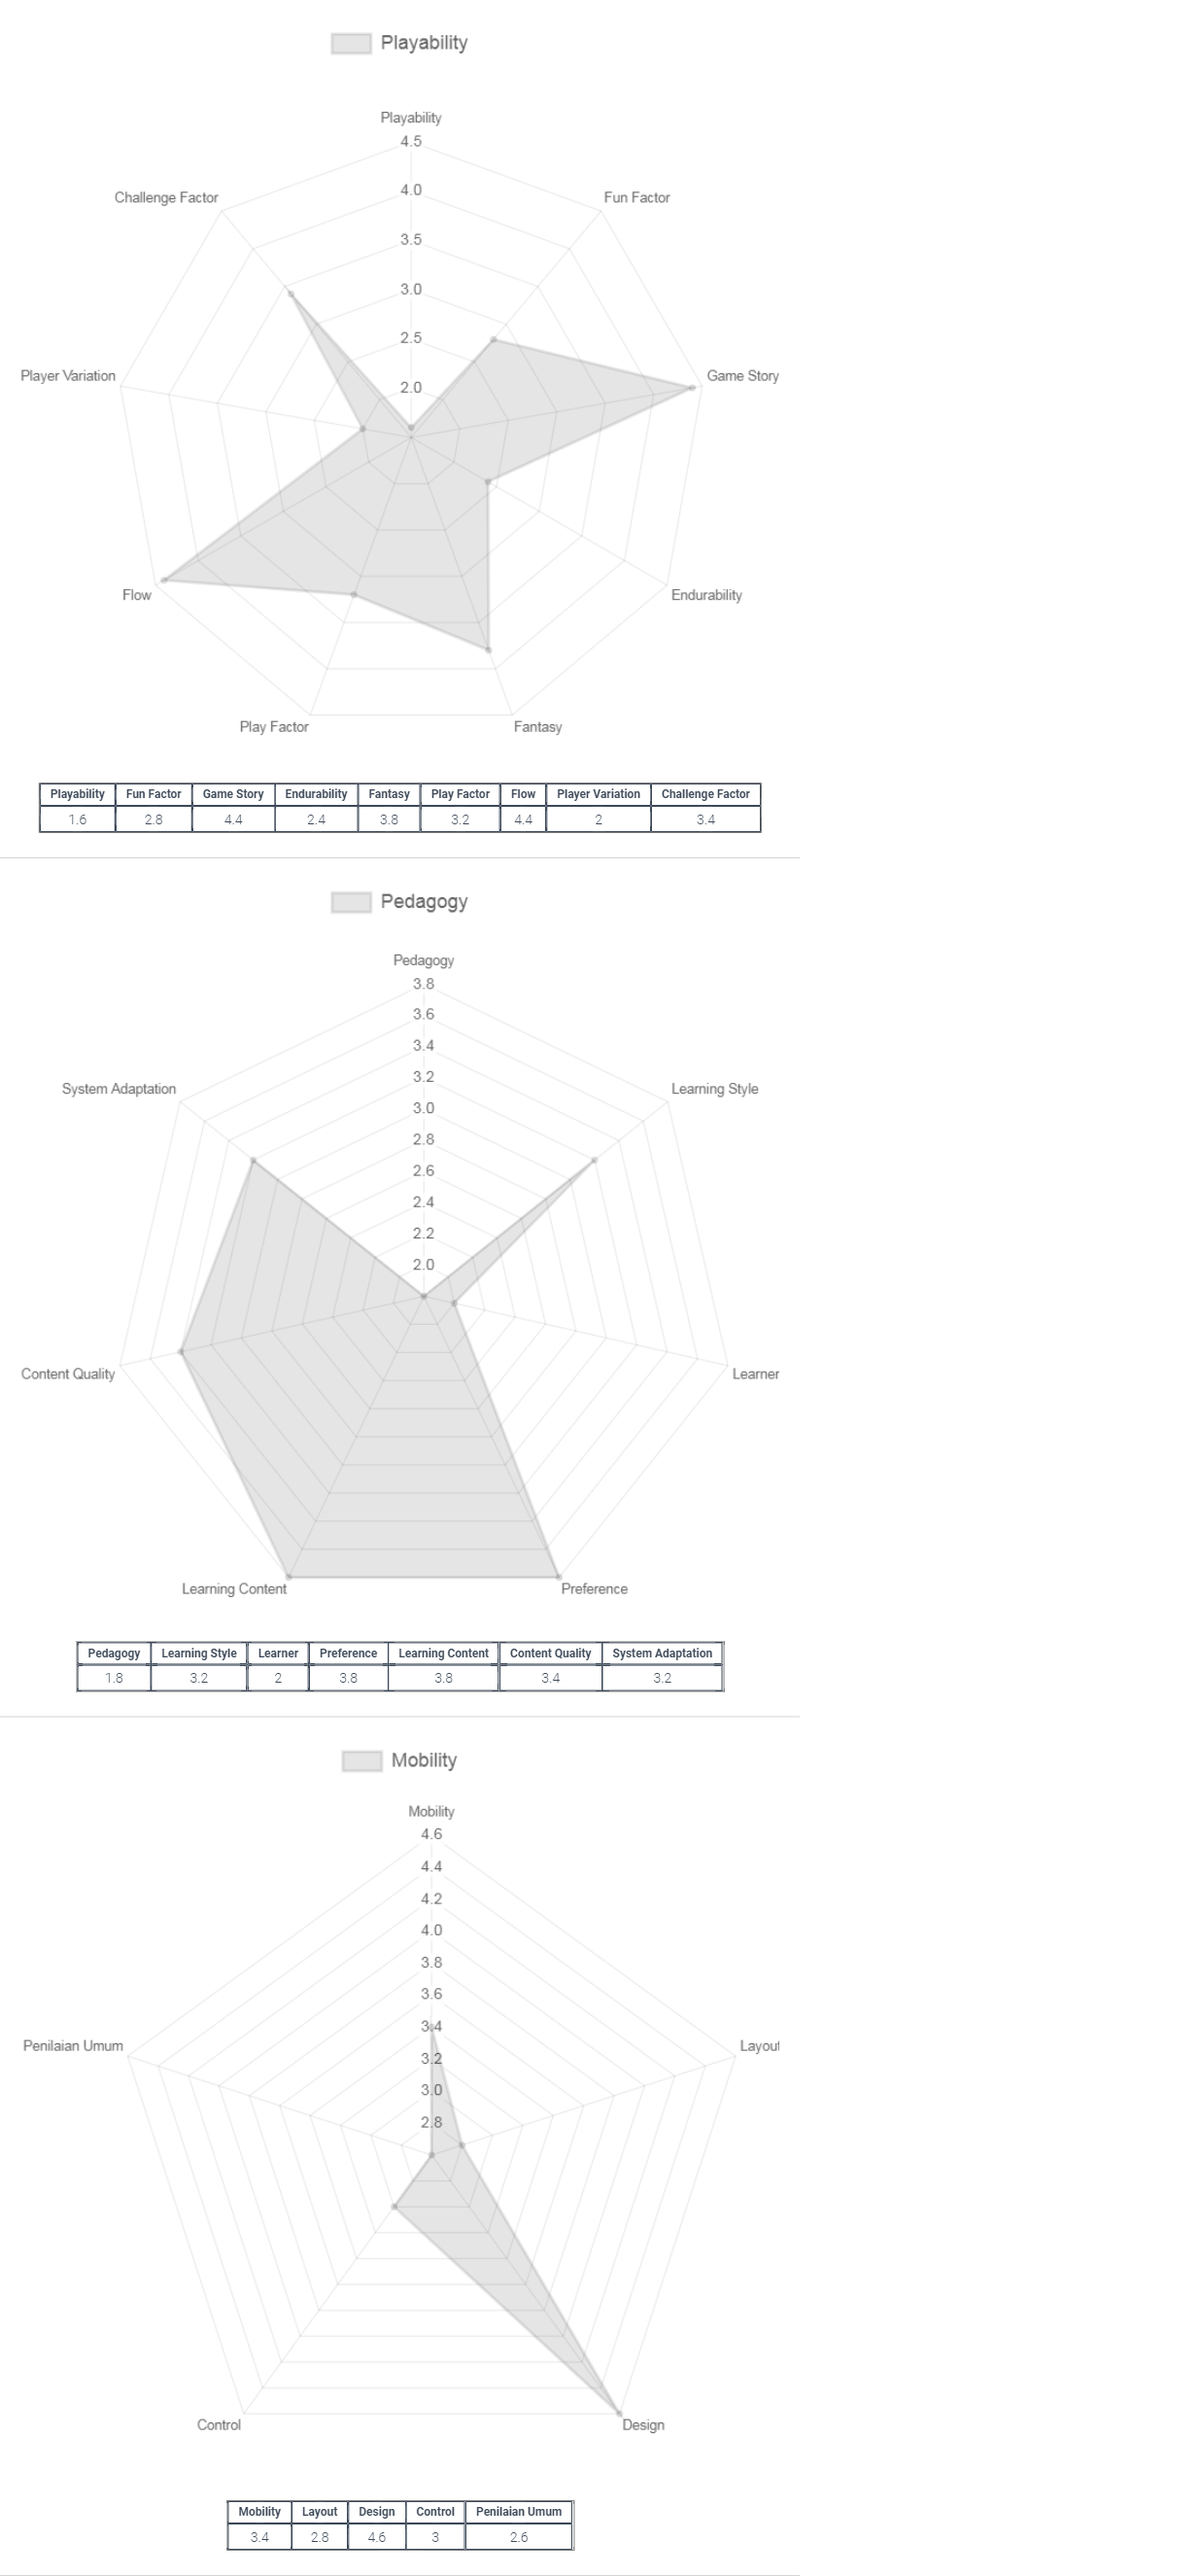
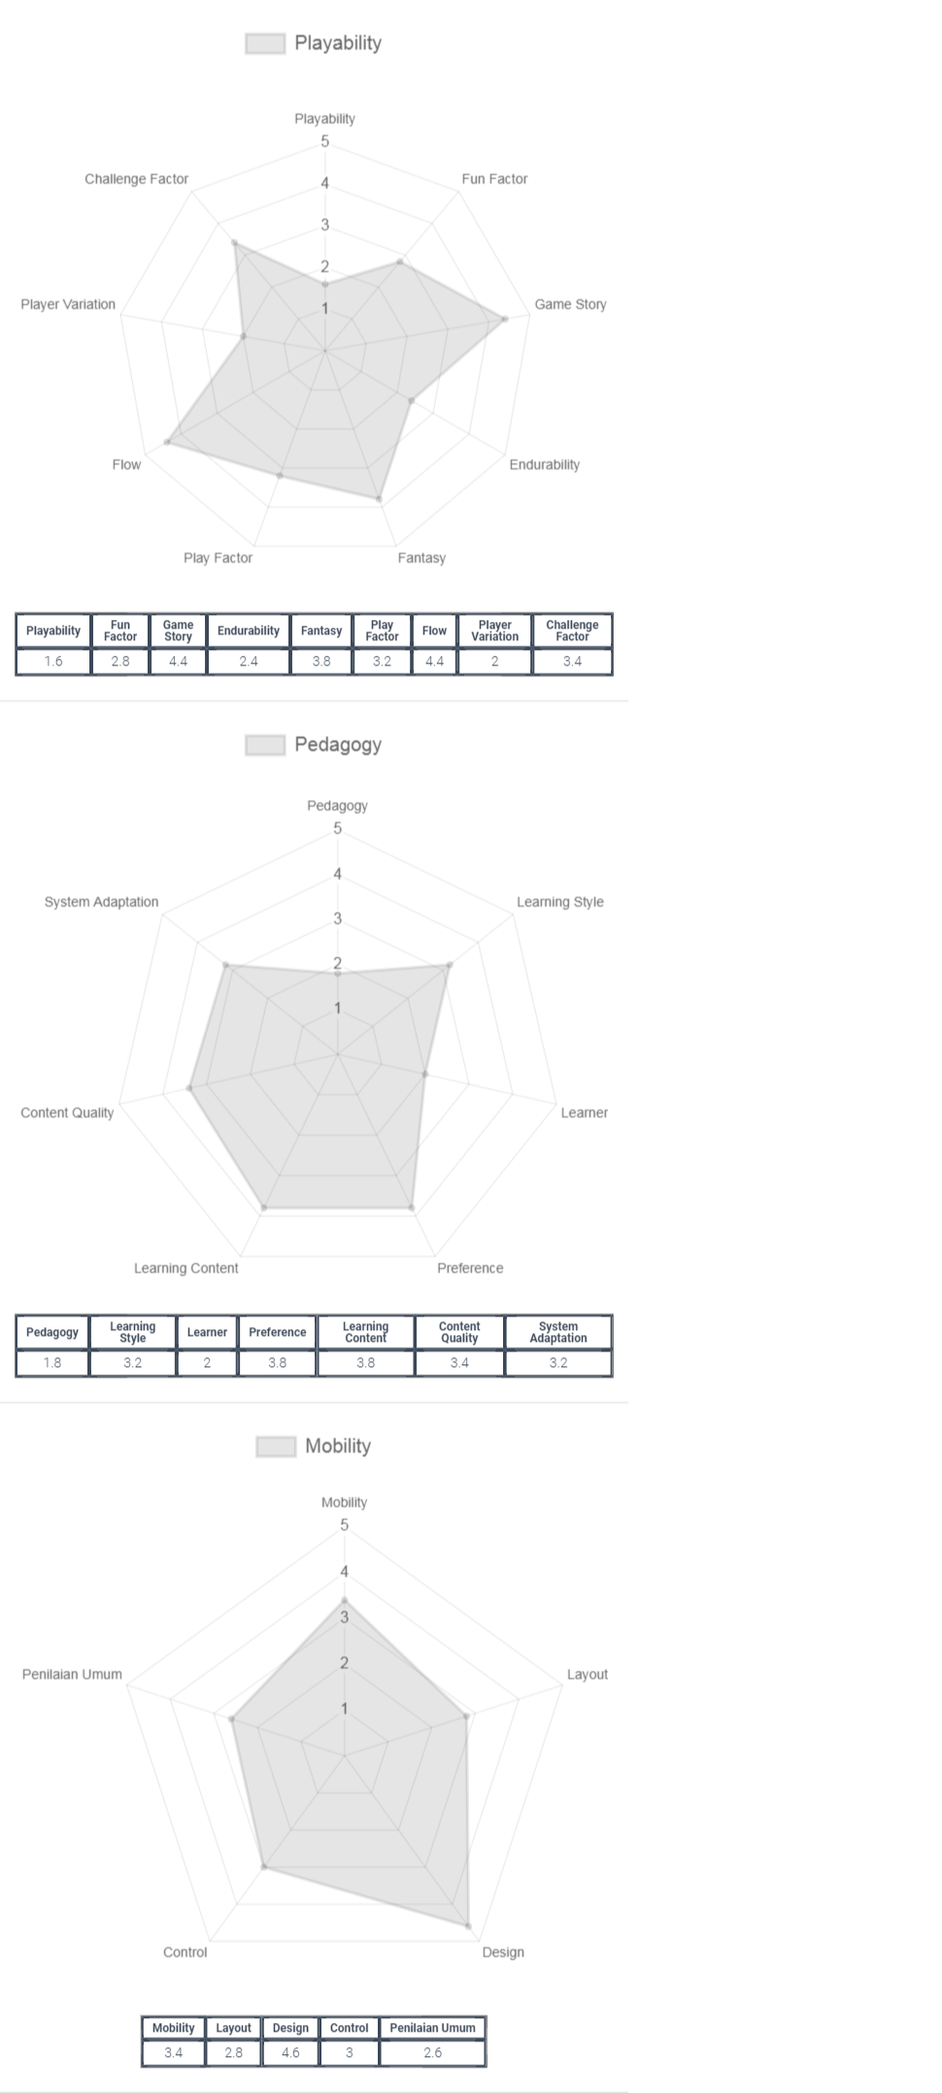
update report : chart, chart table

diff --git a/public/admin/js/page/dashboard.js b/public/admin/js/page/dashboard.js
@@ -106,14 +106,20 @@ function DownloadReportData(id_respondent){
                     },
                     scales: {
                       r: {
+                        max:5, // Set it to your Max value
+                        min: 0,
                         pointLabels: {
                           font: {
                             size: 14
                           }
                         },
+                        
 
                             ticks: {
-                                beginAtZero: true,
+
+                                 // You can also change the Min
+                                stepSize: 1,
+                                beginAtZero: true, // in case you change the Min
                                 font: {
                                     size: 16
                                 }
@@ -228,7 +234,7 @@ function DownloadReportDataV2(id_respondent){
             let reg = /<div hidden>.*?<\/div>/g; 
             let result = respon.replace(reg, "");
 
-            // console.log(result);
+            //console.log(result);
             $('#download-view').html(result);
 
 
@@ -241,17 +247,49 @@ function DownloadReportDataV2(id_respondent){
 
             $("input.masterChart").each(function(){
               // var idInput = $(this).attr('id'); 
+
+              var arrLabel;
+              var arrData;
+
               var name = $(this).attr('name'); 
               var label = $('#label'+name).val(); 
               var data = $(this).val(); 
 
               // console.log(name);
-              // console.log(label[0]);
-              // console.log(data[1]);
+              // console.log(label);
+              // console.log(data);
 
+
+              
+              // if (name == 'Mobility') {
+              //   arrLabel = label.split(",");
+              //   arrData = data.split(",");
+
+              //   var arrLabelSkip = [];
+              //   var arrDataSkip = [];
+              //   for (var i = 0; i < label.length; i++) {
+              //       if (arrLabel[i] == 'Design' || arrLabel[i] =='Control') {
+              //            arrLabelSkip.push(arrLabel[i]);
+              //            arrDataSkip.push(arrData[i]);
+              //       }
+              //   }
+
+              //   console.log(arrLabelSkip);
+              //   console.log(arrDataSkip);
+
+              //   arrLabel = arrLabelSkip;
+              //   arrData = arrDataSkip;
+                
+              // }else{
+                
+              // }
+
+
+              // console.log(arrLabel);
+              // console.log(arrData);
 
               arrLabel = label.split(",");
-              arrData = data.split(",");
+                arrData = data.split(",");
               Chart.defaults.font.size = 20;
               new Chart(document.getElementById(name), {
                 type: 'radar',
@@ -271,22 +309,26 @@ function DownloadReportDataV2(id_respondent){
                         }
                     },
                     scales: {
-                      r: {
+                        r: {
+                        max:5, // Set it to your Max value
+                        min: 0,
                         pointLabels: {
                           font: {
                             size: 14
                           }
                         },
+                        
 
                             ticks: {
-                                beginAtZero: true,
+
+                                 // You can also change the Min
+                                stepSize: 1,
+                                beginAtZero: true, // in case you change the Min
                                 font: {
                                     size: 16
                                 }
                             },
-               
-
-                      },
+                        },
 
 
 

diff --git a/resources/views/admin/download/report-download-next.blade.php b/resources/views/admin/download/report-download-next.blade.php
@@ -20,25 +20,46 @@
                 <table border="1">
                     <tbody>
                         @if($pages->id_page == $pages->id_page)
-
-                                
+                            @if($pages->name == 'Mobility')
+                      
                                 <tr>  
-                                    @foreach($comment as $key => $cm)
-                                        @if($pages->id_page == $cm->id_page && $key > 0 && $cm->name != $pages->name)                                   
+                                    @foreach($comment as $cm)
+                                        @if($cm->name == 'Design' || $cm->name =='Control')
+                                    
 
                                             <td style="font-size: 12px; padding: 5px 10px;line-height: 12px; font-weight: bold; border: 2px solid;" ><center><b>{{$cm->name}}</b></center></td>
                                         @endif
                                     @endforeach
                                 </tr>
                                 <tr>
-                                    @foreach($comment as $key => $cm)
-                                        @if($pages->id_page == $cm->id_page && $key > 0 && $cm->name != $pages->name)
+                                    @foreach($comment as $cm)
+                                        @if($cm->name == 'Design' || $cm->name =='Control')
                                             
+
                                             <td style="font-size:14px; border:2px solid"> <center>{{$cm->rate}}</center></td>
                                         @endif
                                     @endforeach
                                 </tr>
-                       
+                             @else
+                                <tr>  
+                                    @foreach($comment as $cm)
+                                        @if($pages->id_page == $cm->id_page)
+                                    
+
+                                            <td style="font-size: 12px; padding: 5px 10px;line-height: 12px; font-weight: bold; border: 2px solid;" ><center><b>{{$cm->name}}</b></center></td>
+                                        @endif
+                                    @endforeach
+                                </tr>
+                                <tr>
+                                    @foreach($comment as $cm)
+                                        @if($pages->id_page == $cm->id_page)
+                                            
+
+                                            <td style="font-size:14px; border:2px solid"> <center>{{$cm->rate}}</center></td>
+                                        @endif
+                                    @endforeach
+                                </tr>
+                             @endif
 
                         @endif
                     </tbody>
@@ -246,36 +267,57 @@
 
             
             <table border="1">
-                <tbody>
-                    @if($pages->id_page == $pages->id_page)
+                    <tbody>
+                        @if($pages->id_page == $pages->id_page)
+                            @if($pages->name == 'Mobility')
+                      
+                                <tr>  
+                                    @foreach($category as $key => $cm)
+                                        @if($cm->name == 'Design' || $cm->name =='Control')
+                                    
+
+                                            <td style="font-size: 12px; padding: 5px 10px;line-height: 12px; font-weight: bold; border: 2px solid;" ><center><b>{{$cm->name}}</b></center></td>
+                                        @endif
+                                    @endforeach
+                                </tr>
+                                <tr>
+                                    @foreach($category as $key => $cm)
+                                        @if($cm->name == 'Design' || $cm->name =='Control')
+                                            
+
+                                            <td style="font-size:14px; border:2px solid"> <center>{{$cm->rate}}</center></td>
+                                        @endif
+                                    @endforeach
+                                </tr>
+                             @else
+                                <tr>  
+                                    @foreach($category as $key => $cm)
+                                        @if($pages->id_page == $cm->id_page && $key > 0 && $cm->name != $pages->name)
+                                    
+
+                                            <td style="font-size:12px; padding: 5px 10px; line-height: 12px; font-weight: bold; border:2px solid" ><center><b>{{$cm->name}}</b></center></td>
+                                        @endif
+                                    @endforeach
+                                </tr>
+                                <tr>
+                                    @foreach($category as $key => $cm)
+                                        @if($pages->id_page == $cm->id_page && $key > 0 && $cm->name != $pages->name)
+                                            
+
+                                            <td style="font-size:14px; border:2px solid"> <center>{{$cm->rate}}</center></td>
+                                        @endif
+                                    @endforeach
+                                </tr>
+                             @endif
+
+                        @endif
+                    </tbody>
+                </table>
 
 
 
 
-                  
-                            <tr>  
-                                @foreach($category as $key => $cm)
-                                    @if($pages->id_page == $cm->id_page && $key > 0 && $cm->name != $pages->name)
-                                
 
-                                        <td style="font-size:12px; padding: 5px 10px; line-height: 12px; font-weight: bold; border:2px solid" ><center><b>{{$cm->name}}</b></center></td>
-                                    @endif
-                                @endforeach
-                            </tr>
-                            <tr>
-                                @foreach($category as $key => $cm)
-                                    @if($pages->id_page == $cm->id_page && $key > 0 && $cm->name != $pages->name)
-                                        
-
-                                        <td style="font-size:14px; border:2px solid"> <center>{{$cm->rate}}</center></td>
-                                    @endif
-                                @endforeach
-                            </tr>
-                   
-
-                    @endif
-                </tbody>
-            </table>
             </center>
         </div>
 

diff --git a/resources/views/admin/download/report-download.blade.php b/resources/views/admin/download/report-download.blade.php
@@ -20,8 +20,27 @@
                 <table border="1">
                     <tbody>
                         @if($pages->id_page == $pages->id_page)
-
+                            @if($pages->name == "Mobility")
                       
+                                <tr>  
+                                    @foreach($comment as $cm)
+                                        @if($cm->name == 'Design' || $cm->name =='Control')
+                                    
+
+                                            <td style="font-size: 12px; padding: 5px 10px;line-height: 12px; font-weight: bold; border: 2px solid;" ><center><b>{{$cm->name}}</b></center></td>
+                                        @endif
+                                    @endforeach
+                                </tr>
+                                <tr>
+                                    @foreach($comment as $cm)
+                                        @if($cm->name == 'Design' || $cm->name =='Control')
+                                            
+
+                                            <td style="font-size:14px; border:2px solid"> <center>{{$cm->rate}}</center></td>
+                                        @endif
+                                    @endforeach
+                                </tr>
+                             @else
                                 <tr>  
                                     @foreach($comment as $cm)
                                         @if($pages->id_page == $cm->id_page)
@@ -40,7 +59,7 @@
                                         @endif
                                     @endforeach
                                 </tr>
-                       
+                             @endif
 
                         @endif
                     </tbody>
@@ -249,27 +268,54 @@
             
             <table border="1">
                 <tbody>
+
+
+
+
                     @if($pages->id_page == $pages->id_page)
 
+                            @if($pages->name == "Mobility")
+                      
+                                <tr>  
+                                    @foreach($category as $cm)
+                                        @if($cm->name == 'Design' || $cm->name =='Control')
+                                    
+
+                                            <td style="font-size: 12px; padding: 5px 10px;line-height: 12px; font-weight: bold; border: 2px solid;" ><center><b>{{$cm->name}}</b></center></td>
+                                        @endif
+                                    @endforeach
+                                </tr>
+                                <tr>
+                                    @foreach($category as $cm)
+                                        @if($cm->name == 'Design' || $cm->name =='Control')
+                                            
+
+                                            <td style="font-size:14px; border:2px solid"> <center>{{$cm->rate}}</center></td>
+                                        @endif
+                                    @endforeach
+                                </tr>
+                             @else
+                                <tr>  
+                                    @foreach($category as $cm)
+                                        @if($pages->id_page == $cm->id_page)
+                                    
+
+                                            <td style="font-size:12px; padding: 5px 10px; line-height: 12px; font-weight: bold; border:2px solid" ><center><b>{{$cm->name}}</b></center></td>
+                                        @endif
+                                    @endforeach
+                                </tr>
+                                <tr>
+                                    @foreach($category as $cm)
+                                        @if($pages->id_page == $cm->id_page)
+                                            
+
+                                            <td style="font-size:14px; border:2px solid"> <center>{{$cm->rate}}</center></td>
+                                        @endif
+                                    @endforeach
+                                </tr>
+                             @endif
                   
-                            <tr>  
-                                @foreach($category as $cm)
-                                    @if($pages->id_page == $cm->id_page)
-                                
-
-                                        <td style="font-size:12px; padding: 5px 10px; line-height: 12px; font-weight: bold; border:2px solid" ><center><b>{{$cm->name}}</b></center></td>
-                                    @endif
-                                @endforeach
-                            </tr>
-                            <tr>
-                                @foreach($category as $cm)
-                                    @if($pages->id_page == $cm->id_page)
-                                        
-
-                                        <td style="font-size:14px; border:2px solid"> <center>{{$cm->rate}}</center></td>
-                                    @endif
-                                @endforeach
-                            </tr>
+                            
                    
 
                     @endif
